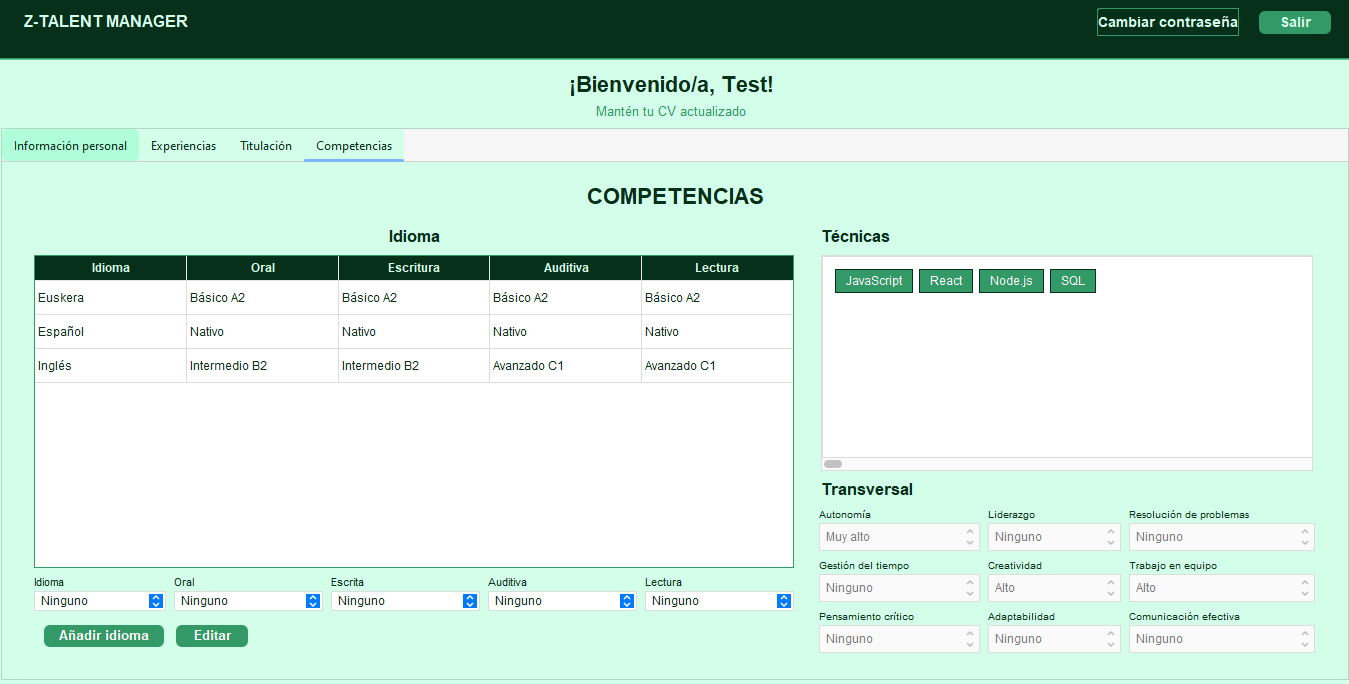
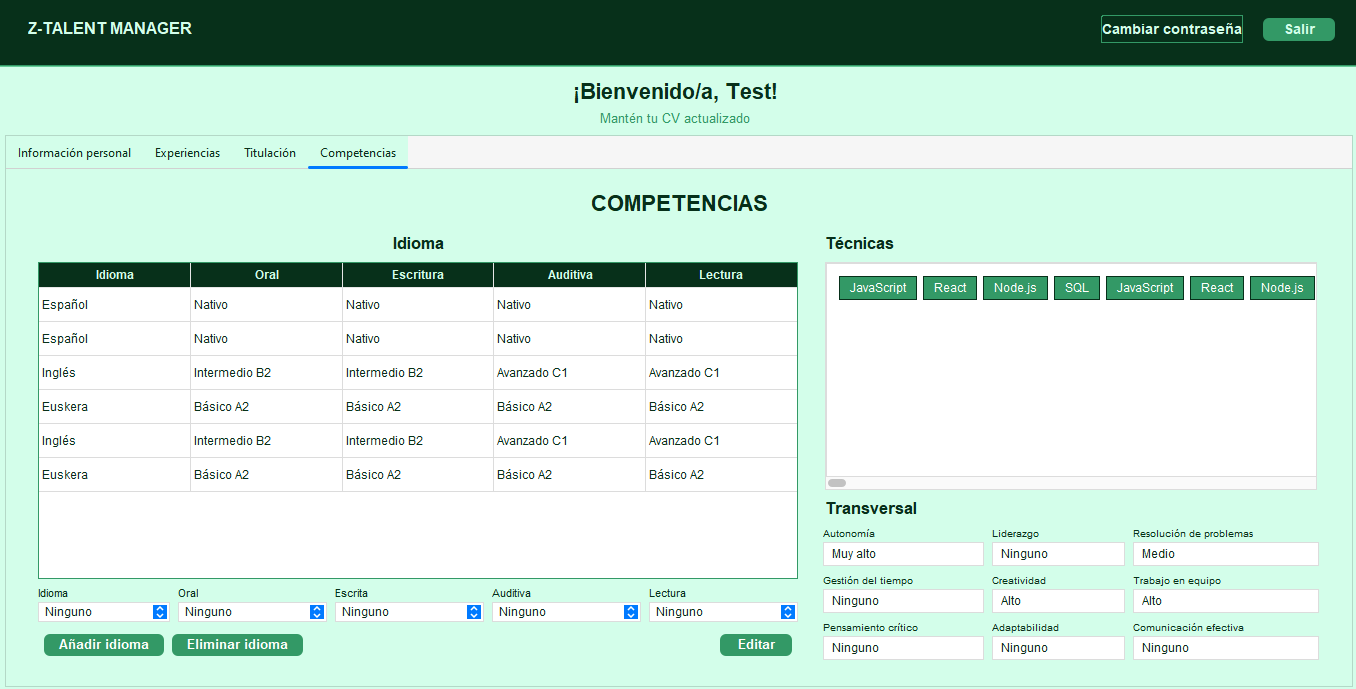
Añadidas fotos nuevas a carpeta images de Manual Uusuario y modificados archivos Manual de usuario.html y Manual de usuario-Traduccion.html

diff --git a/Manual de usuario/manualUsuario.html b/Manual de usuario/manualUsuario.html
@@ -82,6 +82,7 @@
                     </div>
                     <div class="imagen">
                         <img src="./images/image2.jpg" alt="Captura del perfil" />
+						<img src="./images/image10.jpg" alt="Captura modificacion deinformacion personal" />
                     </div>
                 </article>
 				
@@ -91,7 +92,8 @@
                         <p>Esta sección está dedicada a construir tu cronología profesional. Es el espacio donde puedes poner en valor las funciones desempeñadas y los logros alcanzados en cada uno de los puestos que has ocupado a lo largo de tu carrera, permitiendo a los reclutadores comprender tu potencial y experiencia práctica.</p>
                     </div>
                     <div class="imagen">
-                        <img src="./images/image3.jpg" alt="Captura del perfil" />
+                        <img src="./images/image3.jpg" alt="Captura de experiencias" />
+						<img src="./images/image11.jpg" alt="Captura de modificacion de experiencias" />
                     </div>
                 </article>
 				
@@ -102,6 +104,7 @@
                     </div>
                     <div class="imagen">
                         <img src="./images/image4.jpg" alt="Captura del perfil" />
+						<img src="./images/image12.jpg" alt="Captura de modificacion de titulacion" />
                     </div>
                 </article>
  
@@ -128,7 +131,8 @@
                         <p>Utiliza las herramientas de búsqueda avanzada para encontrar ofertas de trabajo que coincidan con tu perfil. Filtra por sector, ubicación, tipo de contrato, salario y experiencia requerida. Guarda tus búsquedas para recibir notificaciones automáticas cuando se publiquen nuevas ofertas que coincidan.</p>
                     </div>
                     <div class="imagen">
-                        <img src="./images/image.jpg" alt="Captura de busqueda de empleo y filtros" />
+                        <img src="./images/image8.jpg" alt="Captura de busqueda de empleo y filtros" />
+						<img src="./images/image9.jpg" alt="Captura de busqueda de empleo y filtros" />
                     </div>
                 </article>
             </div>

diff --git a/Manual de usuario/manualUsuario-Traduccion.html b/Manual de usuario/manualUsuario-Traduccion.html
@@ -76,6 +76,7 @@
                     </div>
                     <div class="imagen">
                         <img src="./images/image2.jpg" alt="Profile screenshot" />
+						<img src="./images/image10.jpg" alt="Captura modificacion deinformacion personal" />
                     </div>
                 </article>
 				
@@ -86,6 +87,7 @@
                     </div>
                     <div class="imagen">
                         <img src="./images/image3.jpg" alt="Experience screenshot" />
+						<img src="./images/image11.jpg" alt="Captura de modificacion de experiencias" />
                     </div>
                 </article>
 				
@@ -96,6 +98,8 @@
                     </div>
                     <div class="imagen">
                         <img src="./images/image4.jpg" alt="Qualifications screenshot" />
+						<img src="./images/image12.jpg" alt="Captura de modificacion de titulacion" />
+                    </div>
                     </div>
                 </article>
 
@@ -121,7 +125,8 @@
                         <p>Use the advanced search tools to find job offers that match your profile. Filter by sector, location, contract type, salary, and required experience. Save your searches to receive automatic notifications when new matching offers are published.</p>
                     </div>
                     <div class="imagen">
-                        <img src="./images/image.jpg" alt="Job search screenshot" />
+                        <img src="./images/image8.jpg" alt="Job search screenshot" />
+						  <img src="./images/image9.jpg" alt="Job search screenshot" />
                     </div>
                 </article>
             </div>
